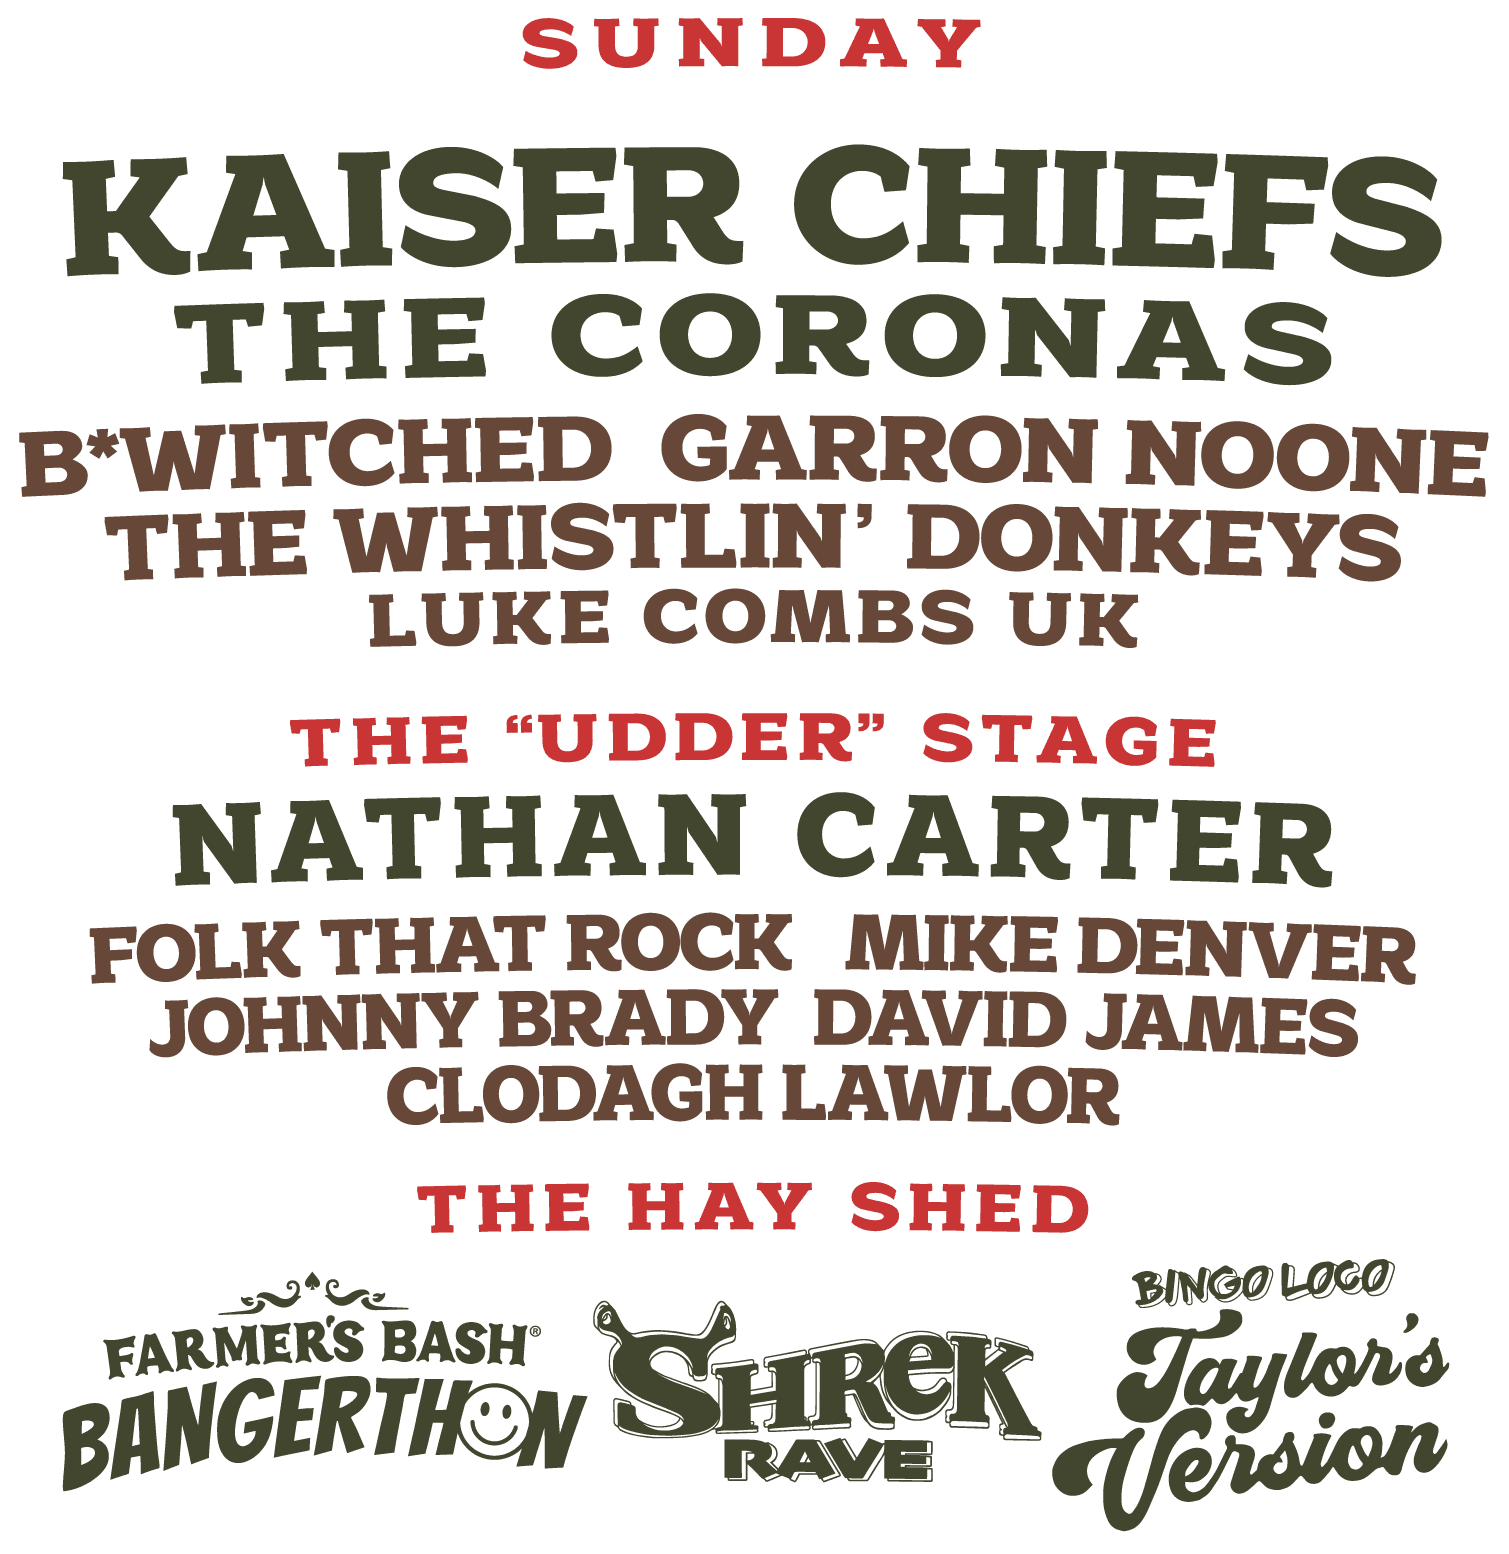
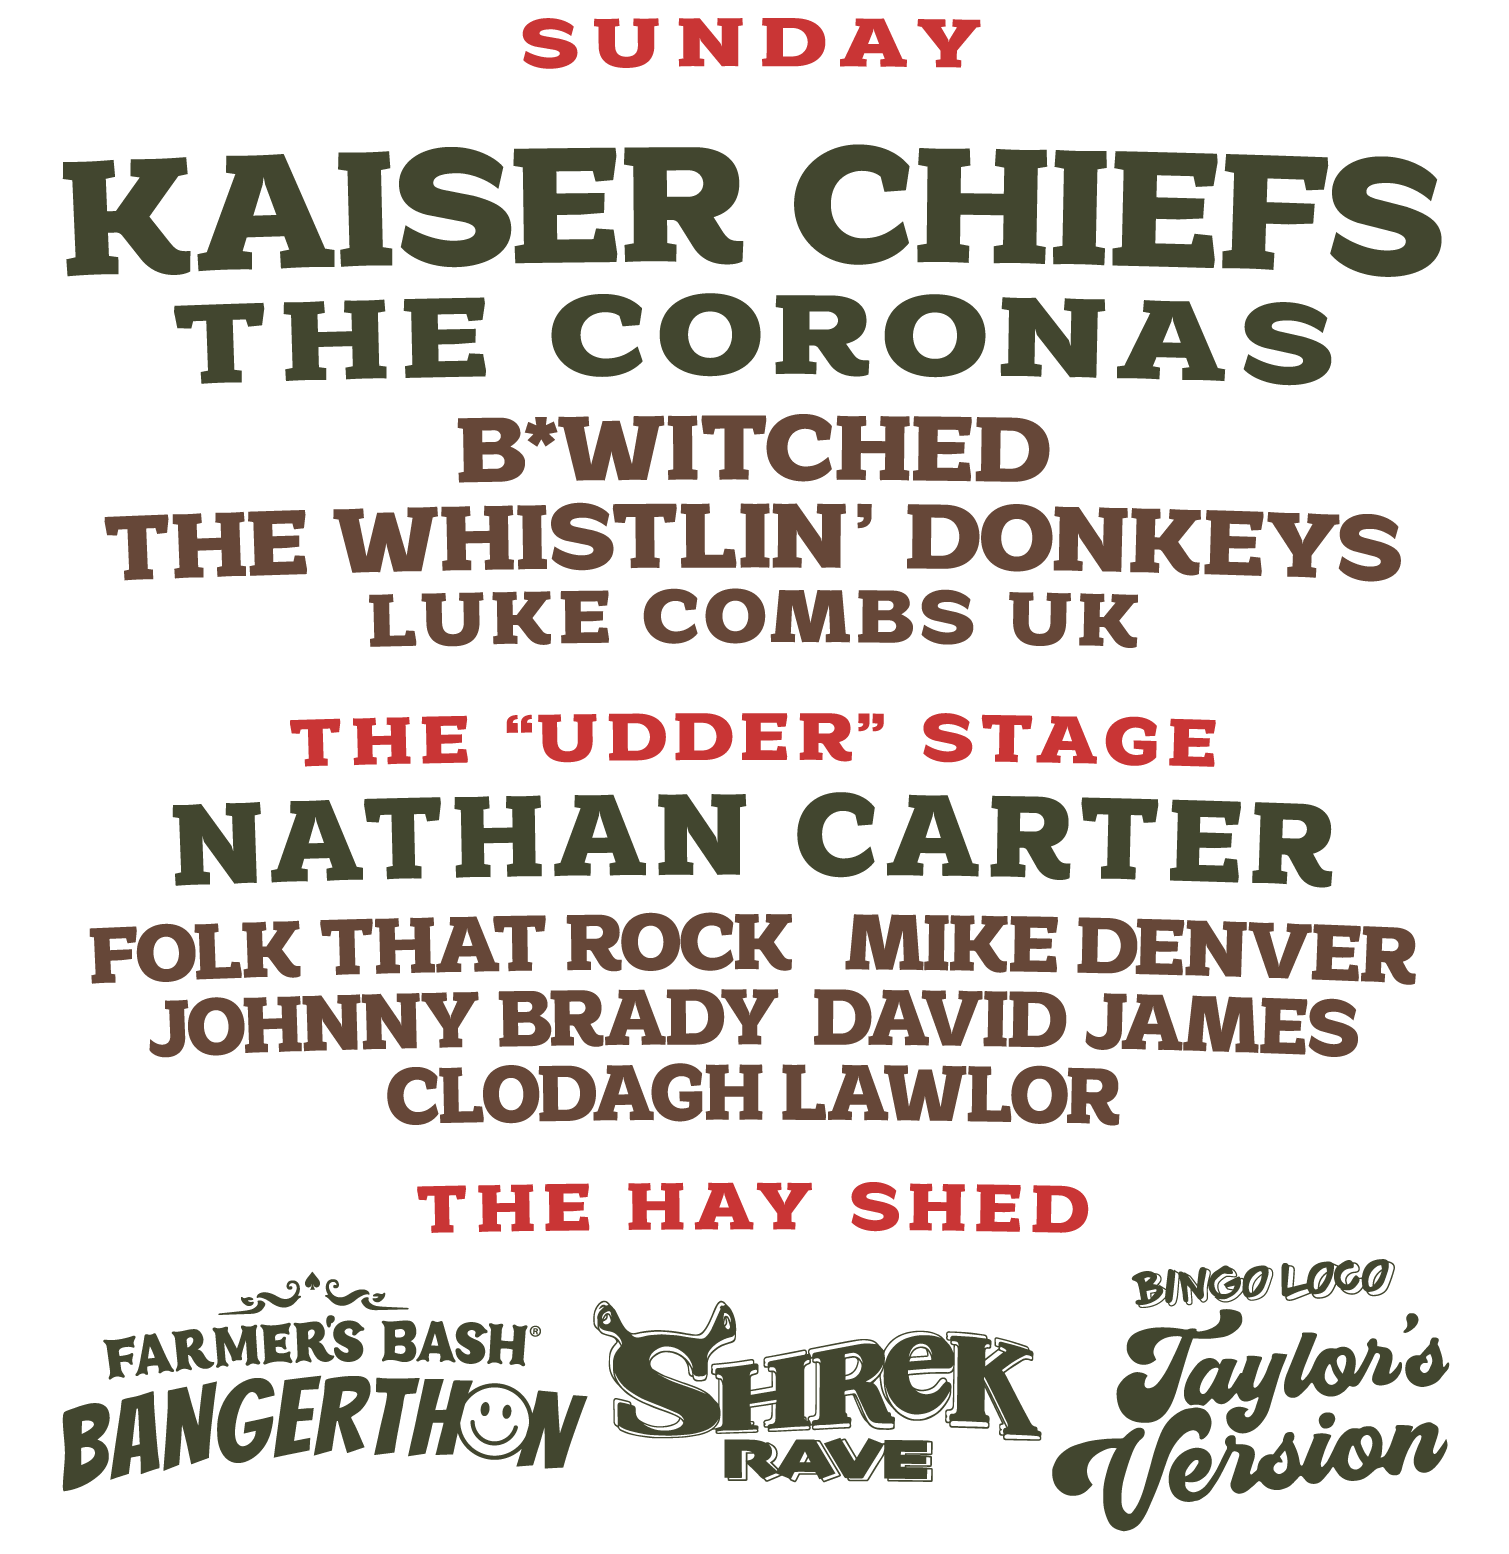
Updates

Changed region(s): [[0.0, 0.2471, 0.9967, 0.3398]]

diff --git a/src/App.tsx b/src/App.tsx
@@ -499,7 +499,7 @@ function App() {
                     <div className="text-white/90 mb-6 text-lg">Belfast has excellent public transport links, making it easy to get to Boucher Road Playing Fields.</div>
                     <ul className="space-y-3">
                       <li className="flex items-center gap-2">
-                        <span className="text-lg text-white/90"><strong className="text-[#d5a271]">Train:</strong> Balmoral and Adelaide train stations are the closest, with regular services from Belfast city centre.</span>
+                        <span className="text-lg text-white/90"><strong className="text-[#d5a271]">Train:</strong> Balmoral train station is the closest, with regular services from Belfast city centre.</span>
                       </li>
                       <li className="flex items-center gap-2">
                         <span className="text-lg text-white/90"><strong className="text-[#d5a271]">Bus:</strong> Translink Metro services operate routes that stop near Boucher Road.</span>
@@ -529,6 +529,26 @@ function App() {
                     </ul>
                   </motion.div>
                 </div>
+              </motion.div>
+            </div>
+            <div className="md:col-span-12">
+              <motion.div 
+                initial={{ opacity: 0, y: 10 }}
+                whileInView={{ opacity: 1, y: 0 }}
+                viewport={{ once: true }}
+                transition={{ duration: 0.5, delay: 0.1 }}
+                className="p-6 bg-white/10 backdrop-blur-sm rounded-xl border border-white/10 mb-8"
+              >
+                <h4 className="font-semibold text-red-400 text-2xl mb-4">Important Event Information</h4>
+                <ul className="list-disc pl-6 space-y-2 text-white/90 text-lg">
+                  <li>Umbrellas, parasols and the like are not permitted at concert events for safety reasons.</li>
+                  <li>Chairs, seats and tables are not permitted at events for safety reasons. <strong>ALL EVENTS ARE STANDING SHOWS.</strong></li>
+                  <li>There are no cloakroom facilities on site. No bags bigger than A4 size are permitted.</li>
+                  <li>Suitcases, luggage and large bags (anything bigger than A4 sized bags) are not permitted.</li>
+                  <li>Picnic blankets are not permitted.</li>
+                  <li>No flags / emblems and flares / pyrotechnics of any kind permitted - those found to have brought inside face ejection without refund.</li>
+                  <li>Anyone considered to be engaging in disruptive behaviour may be ejected with no refund offered.</li>
+                </ul>
               </motion.div>
             </div>
           </div>

diff --git a/src/artists.ts b/src/artists.ts
@@ -48,12 +48,6 @@ export const artists = [
       website: "https://bwitchedofficial.com/",
     },
     {
-      name: "Garron Noone",
-      image: "/images/artists/GarronNoone.webp",
-      imageFallback: "/images/artists/GarronNoone.jpg",
-      website: "https://linktr.ee/garronnoone",
-    },
-    {
       name: "The Tumbling Paddies",
       image: "/images/artists/TumblingPaddies.webp",
       imageFallback: "/images/artists/TumblingPaddies.jpg",
@@ -94,12 +88,6 @@ export const artists = [
       image: "/images/artists/DavidJames.webp",
       imageFallback: "/images/artists/DavidJames.jpg",
       website: "https://davidjamesmusic.co.uk/",
-    },
-    {
-      name: "Lisa McHugh",
-      image: "/images/artists/LisaMcHugh.webp",
-      imageFallback: "/images/artists/LisaMcHugh.jpg",
-      website: "https://lisamchughmusic.com/",
     },
     {
       name: "Mike Denver",

diff --git a/src/components/FAQModal.tsx b/src/components/FAQModal.tsx
@@ -59,7 +59,7 @@ const FAQModal: React.FC<FAQModalProps> = ({ isOpen, onClose }) => {
     },
     {
       question: "Can you tell me more about public transport?",
-      answer: "Train: Balmoral and Adelaide train stations are the closest, with regular services from Belfast city centre.\nBus: Translink Metro services operate routes that stop near Boucher Road."
+      answer: "Train: Balmoral train station is the closest, with regular services from Belfast city centre.\nBus: Translink Metro services operate routes that stop near Boucher Road."
     },
     {
       question: "Is there any camper van parking in or near the event?",

diff --git a/src/components/Navbar.tsx b/src/components/Navbar.tsx
@@ -38,7 +38,7 @@ const Navbar: React.FC<NavbarProps> = ({
     onMenuItemClick(id);
     // Only toggle menu if we're on mobile (menu is already open)
     if (window.innerWidth < 768 && isMenuOpen) {
-      toggleMenu();
+    toggleMenu();
     }
   };
 
